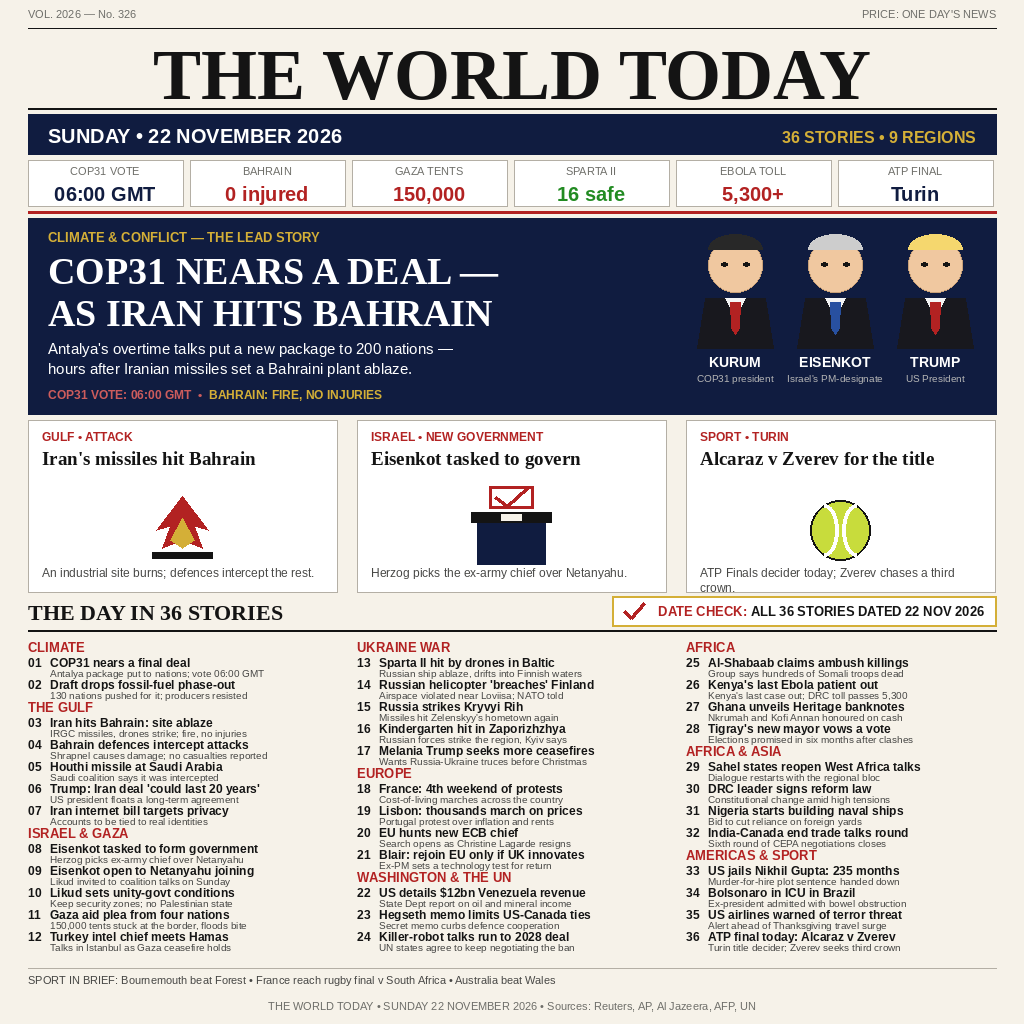
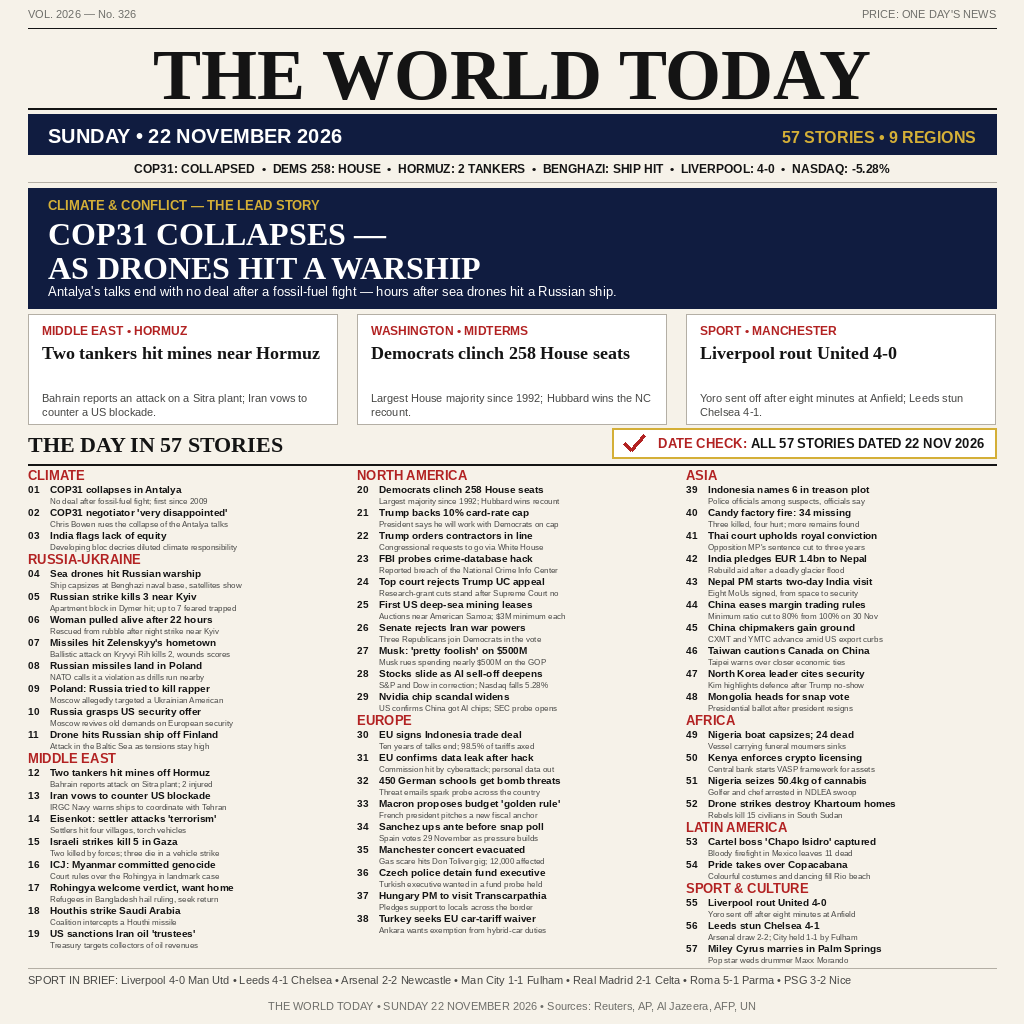
news-image-20261122 v3-content: 57 stories, COP31 collapse lead, denser digest

Changed region(s): [[0.0, 0.125, 1.0, 0.9688]]

diff --git a/main.ts b/main.ts
@@ -1,8 +1,9 @@
 // main.ts — entrypoint for news-image-20261122 (Node 22, stdlib only).
 //
-// compose.py draws the front page and commits it as entry.png next to
-// this file. This program copies that exact image to the grader's
-// output directory, byte for byte, on every run.
+// compose.py draws the v3 front page (57 stories, all dated Sunday
+// 22 November 2026) and commits it as entry.png next to this file.
+// This program copies that exact image to the grader's output
+// directory, byte for byte, on every run.
 //
 // The grader runs `node /bot/main.ts` with the repository read-only at
 // /bot and a writable /output (MAKEFUN_OUTPUT_DIR). Writing back into

diff --git a/compose.py b/compose.py
@@ -2,11 +2,11 @@
 """THE WORLD TODAY front page, Sunday 22 November 2026 (v3).
 
 This program paints a 1024x1024 newspaper front page and writes it to
-entry.png: a masthead, a navy date band, a six-cell statistics strip, a
-hero lead about COP31 and the Bahrain strike with three small portraits,
-three feature boxes, and a numbered digest of 36 stories from 22 November
-2026 sorted into 9 regions, closed by a DATE CHECK box that states every
-story on the page is dated that day.
+entry.png: a masthead, a navy date band, a one-line statistics strip, a
+hero lead about the COP31 collapse in Antalya and the Benghazi drone
+strike, three feature boxes, and a numbered digest of 57 stories from
+22 November 2026 sorted into 9 regions, closed by a DATE CHECK box
+that states every story on the page is dated that day.
 
 Only Pillow is used. The picture is fully deterministic: the program reads
 no clock, no random source and no network, so two runs write the same
@@ -73,84 +73,101 @@ def plain(size):
 
 # ------------------------------------------------------------------ content
 # (number, headline, detail) per region, grouped into three columns.
+# 57 stories, all dated Sunday 22 November 2026. Headlines stay under
+# 40 characters and details under 55 so each story fits one line each
+# at the digest type sizes (bold 11 / plain 9 across 287 px).
 STORY_COLUMNS = [
     [
         ("CLIMATE", [
-            (1, "COP31 nears a final deal", "Antalya package put to nations; vote 06:00 GMT"),
-            (2, "Draft drops fossil-fuel phase-out", "130 nations pushed for it; producers resisted"),
+            (1, "COP31 collapses in Antalya", "No deal after fossil-fuel fight; first since 2009"),
+            (2, "COP31 negotiator 'very disappointed'", "Chris Bowen rues the collapse of the Antalya talks"),
+            (3, "India flags lack of equity", "Developing bloc decries diluted climate responsibility"),
         ]),
-        ("THE GULF", [
-            (3, "Iran hits Bahrain: site ablaze", "IRGC missiles, drones strike; fire, no injuries"),
-            (4, "Bahrain defences intercept attacks", "Shrapnel causes damage; no casualties reported"),
-            (5, "Houthi missile at Saudi Arabia", "Saudi coalition says it was intercepted"),
-            (6, "Trump: Iran deal 'could last 20 years'", "US president floats a long-term agreement"),
-            (7, "Iran internet bill targets privacy", "Accounts to be tied to real identities"),
+        ("RUSSIA-UKRAINE", [
+            (4, "Sea drones hit Russian warship", "Ship capsizes at Benghazi naval base, satellites show"),
+            (5, "Russian strike kills 3 near Kyiv", "Apartment block in Dymer hit; up to 7 feared trapped"),
+            (6, "Woman pulled alive after 22 hours", "Rescued from rubble after night strike near Kyiv"),
+            (7, "Missiles hit Zelenskyy's hometown", "Ballistic attack on Kryvyi Rih kills 2, wounds scores"),
+            (8, "Russian missiles land in Poland", "NATO calls it a violation as drills run nearby"),
+            (9, "Poland: Russia tried to kill rapper", "Moscow allegedly targeted a Ukrainian American"),
+            (10, "Russia grasps US security offer", "Moscow revives old demands on European security"),
+            (11, "Drone hits Russian ship off Finland", "Attack in the Baltic Sea as tensions stay high"),
         ]),
-        ("ISRAEL & GAZA", [
-            (8, "Eisenkot tasked to form government", "Herzog picks ex-army chief over Netanyahu"),
-            (9, "Eisenkot open to Netanyahu joining", "Likud invited to coalition talks on Sunday"),
-            (10, "Likud sets unity-govt conditions", "Keep security zones; no Palestinian state"),
-            (11, "Gaza aid plea from four nations", "150,000 tents stuck at the border, floods bite"),
-            (12, "Turkey intel chief meets Hamas", "Talks in Istanbul as Gaza ceasefire holds"),
+        ("MIDDLE EAST", [
+            (12, "Two tankers hit mines off Hormuz", "Bahrain reports attack on Sitra plant; 2 injured"),
+            (13, "Iran vows to counter US blockade", "IRGC Navy warns ships to coordinate with Tehran"),
+            (14, "Eisenkot: settler attacks 'terrorism'", "Settlers hit four villages, torch vehicles"),
+            (15, "Israeli strikes kill 5 in Gaza", "Two killed by forces; three die in a vehicle strike"),
+            (16, "ICJ: Myanmar committed genocide", "Court rules over the Rohingya in landmark case"),
+            (17, "Rohingya welcome verdict, want home", "Refugees in Bangladesh hail ruling, seek return"),
+            (18, "Houthis strike Saudi Arabia", "Coalition intercepts a Houthi missile"),
+            (19, "US sanctions Iran oil 'trustees'", "Treasury targets collectors of oil revenues"),
         ]),
     ],
     [
-        ("UKRAINE WAR", [
-            (13, "Sparta II hit by drones in Baltic", "Russian ship ablaze, drifts into Finnish waters"),
-            (14, "Russian helicopter 'breaches' Finland", "Airspace violated near Loviisa; NATO told"),
-            (15, "Russia strikes Kryvyi Rih", "Missiles hit Zelenskyy's hometown again"),
-            (16, "Kindergarten hit in Zaporizhzhya", "Russian forces strike the region, Kyiv says"),
-            (17, "Melania Trump seeks more ceasefires", "Wants Russia-Ukraine truces before Christmas"),
+        ("NORTH AMERICA", [
+            (20, "Democrats clinch 258 House seats", "Largest majority since 1992; Hubbard wins recount"),
+            (21, "Trump backs 10% card-rate cap", "President says he will work with Democrats on cap"),
+            (22, "Trump orders contractors in line", "Congressional requests to go via White House"),
+            (23, "FBI probes crime-database hack", "Reported breach of the National Crime Info Center"),
+            (24, "Top court rejects Trump UC appeal", "Research-grant cuts stand after Supreme Court no"),
+            (25, "First US deep-sea mining leases", "Auctions near American Samoa; $3M minimum each"),
+            (26, "Senate rejects Iran war powers", "Three Republicans join Democrats in the vote"),
+            (27, "Musk: 'pretty foolish' on $500M", "Musk rues spending nearly $500M on the GOP"),
+            (28, "Stocks slide as AI sell-off deepens", "S&P and Dow in correction; Nasdaq falls 5.28%"),
+            (29, "Nvidia chip scandal widens", "US confirms China got AI chips; SEC probe opens"),
         ]),
         ("EUROPE", [
-            (18, "France: 4th weekend of protests", "Cost-of-living marches across the country"),
-            (19, "Lisbon: thousands march on prices", "Portugal protest over inflation and rents"),
-            (20, "EU hunts new ECB chief", "Search opens as Christine Lagarde resigns"),
-            (21, "Blair: rejoin EU only if UK innovates", "Ex-PM sets a technology test for return"),
-        ]),
-        ("WASHINGTON & THE UN", [
-            (22, "US details $12bn Venezuela revenue", "State Dept report on oil and mineral income"),
-            (23, "Hegseth memo limits US-Canada ties", "Secret memo curbs defence cooperation"),
-            (24, "Killer-robot talks run to 2028 deal", "UN states agree to keep negotiating the ban"),
+            (30, "EU signs Indonesia trade deal", "Ten years of talks end; 98.5% of tariffs axed"),
+            (31, "EU confirms data leak after hack", "Commission hit by cyberattack; personal data out"),
+            (32, "450 German schools get bomb threats", "Threat emails spark probe across the country"),
+            (33, "Macron proposes budget 'golden rule'", "French president pitches a new fiscal anchor"),
+            (34, "Sanchez ups ante before snap poll", "Spain votes 29 November as pressure builds"),
+            (35, "Manchester concert evacuated", "Gas scare hits Don Toliver gig; 12,000 affected"),
+            (36, "Czech police detain fund executive", "Turkish executive wanted in a fund probe held"),
+            (37, "Hungary PM to visit Transcarpathia", "Pledges support to locals across the border"),
+            (38, "Turkey seeks EU car-tariff waiver", "Ankara wants exemption from hybrid-car duties"),
         ]),
     ],
     [
+        ("ASIA", [
+            (39, "Indonesia names 6 in treason plot", "Police officials among suspects, officials say"),
+            (40, "Candy factory fire: 34 missing", "Three killed, four hurt; more remains found"),
+            (41, "Thai court upholds royal conviction", "Opposition MP's sentence cut to three years"),
+            (42, "India pledges EUR 1.4bn to Nepal", "Rebuild aid after a deadly glacier flood"),
+            (43, "Nepal PM starts two-day India visit", "Eight MoUs signed, from space to security"),
+            (44, "China eases margin trading rules", "Minimum ratio cut to 80% from 100% on 30 Nov"),
+            (45, "China chipmakers gain ground", "CXMT and YMTC advance amid US export curbs"),
+            (46, "Taiwan cautions Canada on China", "Taipei warns over closer economic ties"),
+            (47, "North Korea leader cites security", "Kim highlights defence after Trump no-show"),
+            (48, "Mongolia heads for snap vote", "Presidential ballot after president resigns"),
+        ]),
         ("AFRICA", [
-            (25, "Al-Shabaab claims ambush killings", "Group says hundreds of Somali troops dead"),
-            (26, "Kenya's last Ebola patient out", "Kenya's last case out; DRC toll passes 5,300"),
-            (27, "Ghana unveils Heritage banknotes", "Nkrumah and Kofi Annan honoured on cash"),
-            (28, "Tigray's new mayor vows a vote", "Elections promised in six months after clashes"),
+            (49, "Nigeria boat capsizes; 24 dead", "Vessel carrying funeral mourners sinks"),
+            (50, "Kenya enforces crypto licensing", "Central bank starts VASP framework for assets"),
+            (51, "Nigeria seizes 50.4kg of cannabis", "Golfer and chef arrested in NDLEA swoop"),
+            (52, "Drone strikes destroy Khartoum homes", "Rebels kill 15 civilians in South Sudan"),
         ]),
-        ("AFRICA & ASIA", [
-            (29, "Sahel states reopen West Africa talks", "Dialogue restarts with the regional bloc"),
-            (30, "DRC leader signs reform law", "Constitutional change amid high tensions"),
-            (31, "Nigeria starts building naval ships", "Bid to cut reliance on foreign yards"),
-            (32, "India-Canada end trade talks round", "Sixth round of CEPA negotiations closes"),
+        ("LATIN AMERICA", [
+            (53, "Cartel boss 'Chapo Isidro' captured", "Bloody firefight in Mexico leaves 11 dead"),
+            (54, "Pride takes over Copacabana", "Colourful costumes and dancing fill Rio beach"),
         ]),
-        ("AMERICAS & SPORT", [
-            (33, "US jails Nikhil Gupta: 235 months", "Murder-for-hire plot sentence handed down"),
-            (34, "Bolsonaro in ICU in Brazil", "Ex-president admitted with bowel obstruction"),
-            (35, "US airlines warned of terror threat", "Alert ahead of Thanksgiving travel surge"),
-            (36, "ATP final today: Alcaraz v Zverev", "Turin title decider; Zverev seeks third crown"),
+        ("SPORT & CULTURE", [
+            (55, "Liverpool rout United 4-0", "Yoro sent off after eight minutes at Anfield"),
+            (56, "Leeds stun Chelsea 4-1", "Arsenal draw 2-2; City held 1-1 by Fulham"),
+            (57, "Miley Cyrus marries in Palm Springs", "Pop star weds drummer Maxx Morando"),
         ]),
     ],
 ]
 
 STAT_BOXES = [
-    ("COP31 VOTE", "06:00 GMT", NAVY),
-    ("BAHRAIN", "0 injured", CRIMSON),
-    ("GAZA TENTS", "150,000", CRIMSON),
-    ("SPARTA II", "16 safe", LEAF),
-    ("EBOLA TOLL", "5,300+", CRIMSON),
-    ("ATP FINAL", "Turin", NAVY),
+    ("COP31", "COLLAPSED", CRIMSON),
+    ("DEMS 258", "HOUSE", NAVY),
+    ("HORMUZ", "2 TANKERS", CRIMSON),
+    ("BENGHAZI", "SHIP HIT", NAVY),
+    ("LIVERPOOL", "4-0", LEAF),
+    ("NASDAQ", "-5.28%", CRIMSON),
 ]
-
-LEAD_PORTRAITS = [
-    (735, (40, 40, 40), CRIMSON, "KURUM", "COP31 president"),
-    (835, (205, 205, 205), BLUE_TIE, "EISENKOT", "Israel's PM-designate"),
-    (935, (245, 215, 110), CRIMSON, "TRUMP", "US President"),
-]
-
 
 class FrontPage:
     """Owns the canvas and draws every section of the front page."""
@@ -258,118 +275,98 @@ class FrontPage:
         d.rectangle([MARGIN, 114, RIGHT_EDGE, 154], fill=NAVY)
         d.text((MARGIN + 20, 124), "SUNDAY • 22 NOVEMBER 2026",
                font=bold(20), fill=WHITE)
-        self.right(RIGHT_EDGE - 20, 128, "36 STORIES • 9 REGIONS",
+        self.right(RIGHT_EDGE - 20, 128, "57 STORIES • 9 REGIONS",
                    bold(16), GOLD)
 
     def stats(self):
         d = self.d
-        cell_w, cell_gap = 155, 7
-        for i, (label, value, color) in enumerate(STAT_BOXES):
-            bx = MARGIN + i * (cell_w + cell_gap)
-            d.rectangle([bx, 160, bx + cell_w, 206],
-                        fill=WHITE, outline=RULE)
-            self.center(bx + cell_w // 2, 165, label, plain(11), MUTED)
-            self.center(bx + cell_w // 2, 182, value, bold(20), color)
-        d.line([(MARGIN, 212), (RIGHT_EDGE, 212)], fill=CRIMSON, width=3)
+        parts = ["%s: %s" % (label, value) for label, value, _ in STAT_BOXES]
+        line = "  •  ".join(parts)
+        self.center(PAGE_W // 2, 162, line, bold(12), INK)
+        d.line([(MARGIN, 182), (RIGHT_EDGE, 182)], fill=RULE, width=1)
 
     def hero(self):
         d = self.d
-        d.rectangle([MARGIN, 218, RIGHT_EDGE, 414], fill=NAVY)
-        d.text((MARGIN + 20, 230), "CLIMATE & CONFLICT — THE LEAD STORY",
+        d.rectangle([MARGIN, 188, RIGHT_EDGE, 308], fill=NAVY)
+        d.text((MARGIN + 20, 198), "CLIMATE & CONFLICT — THE LEAD STORY",
                font=bold(13), fill=GOLD)
-        d.text((MARGIN + 20, 250), "COP31 NEARS A DEAL —",
-               font=serif(38), fill=WHITE)
-        d.text((MARGIN + 20, 292), "AS IRAN HITS BAHRAIN",
-               font=serif(38), fill=WHITE)
-        d.text((MARGIN + 20, 340),
-               "Antalya's overtime talks put a new package to 200 nations —",
-               font=plain(15), fill=WHITE)
-        d.text((MARGIN + 20, 360),
-               "hours after Iranian missiles set a Bahraini plant ablaze.",
-               font=plain(15), fill=WHITE)
-        first = "COP31 VOTE: 06:00 GMT  •  "
-        w1 = d.textlength(first, font=bold(12))
-        d.text((MARGIN + 20, 388), first, font=bold(12), fill=CRIMSON_LIGHT)
-        d.text((MARGIN + 20 + w1, 388), "BAHRAIN: FIRE, NO INJURIES",
-               font=bold(12), fill=GOLD)
-        for cx, hair, tie, name, title in LEAD_PORTRAITS:
-            self.portrait(cx, 238, hair, tie, name, title)
+        d.text((MARGIN + 20, 216), "COP31 COLLAPSES —",
+               font=serif(32), fill=WHITE)
+        d.text((MARGIN + 20, 250), "AS DRONES HIT A WARSHIP",
+               font=serif(32), fill=WHITE)
+        d.text((MARGIN + 20, 284),
+               "Antalya's talks end with no deal after a fossil-fuel fight — hours after sea drones hit a Russian ship.",
+               font=plain(13), fill=WHITE)
 
     def features(self):
         d = self.d
-        feat_y, feat_h = 420, 172
+        feat_y, feat_h = 314, 110
         for fx in COLUMN_X:
             d.rectangle([fx, feat_y, fx + COLUMN_W, feat_y + feat_h],
                         fill=WHITE, outline=RULE)
         specs = [
-            (COLUMN_X[0], "GULF • ATTACK", "Iran's missiles hit Bahrain",
-             self.flame, 496,
-             "An industrial site burns; defences intercept the rest."),
-            (COLUMN_X[1], "ISRAEL • NEW GOVERNMENT",
-             "Eisenkot tasked to govern", self.ballot, 512,
-             "Herzog picks the ex-army chief over Netanyahu."),
-            (COLUMN_X[2], "SPORT • TURIN", "Alcaraz v Zverev for the title",
-             self.tennis, 500,
-             "ATP Finals decider today; Zverev chases a third crown."),
+            (COLUMN_X[0], "MIDDLE EAST • HORMUZ",
+             "Two tankers hit mines near Hormuz",
+             "Bahrain reports an attack on a Sitra plant; Iran vows to counter a US blockade."),
+            (COLUMN_X[1], "WASHINGTON • MIDTERMS",
+             "Democrats clinch 258 House seats",
+             "Largest House majority since 1992; Hubbard wins the NC recount."),
+            (COLUMN_X[2], "SPORT • MANCHESTER",
+             "Liverpool rout United 4-0",
+             "Yoro sent off after eight minutes at Anfield; Leeds stun Chelsea 4-1."),
         ]
-        for fx, kicker, headline, icon, icon_y, caption in specs:
-            d.text((fx + 14, 430), kicker, font=bold(12), fill=CRIMSON)
-            self.para(fx + 14, 448, headline, serif(19), COLUMN_W - 28,
-                      22, INK)
-            icon(fx + COLUMN_W // 2, icon_y)
-            self.para(fx + 14, 566, caption, plain(12), COLUMN_W - 28,
-                      15, MUTED_DARK)
+        for fx, kicker, headline, caption in specs:
+            d.text((fx + 14, feat_y + 10), kicker, font=bold(12), fill=CRIMSON)
+            self.para(fx + 14, feat_y + 28, headline, serif(18),
+                      COLUMN_W - 28, 21, INK)
+            self.para(fx + 14, feat_y + 78, caption, plain(11),
+                      COLUMN_W - 28, 14, MUTED_DARK)
 
     def stories_heading(self):
         d = self.d
-        d.text((MARGIN, 600), "THE DAY IN 36 STORIES",
+        d.text((MARGIN, 432), "THE DAY IN 57 STORIES",
                font=serif(22), fill=INK)
         check_font = bold(13)
         part_a = "DATE CHECK: "
-        part_b = "ALL 36 STORIES DATED 22 NOV 2026"
+        part_b = "ALL 57 STORIES DATED 22 NOV 2026"
         wa = d.textlength(part_a, font=check_font)
         wb = d.textlength(part_b, font=check_font)
         box_w = 12 + 26 + 8 + wa + wb + 12
         box_x0 = RIGHT_EDGE - box_w
-        d.rectangle([box_x0, 596, RIGHT_EDGE, 626],
+        d.rectangle([box_x0, 428, RIGHT_EDGE, 458],
                     fill=WHITE, outline=GOLD, width=2)
         tick_x = box_x0 + 12
-        tick_y = 611
+        tick_y = 443
         d.line([(tick_x, tick_y), (tick_x + 7, tick_y + 7),
                 (tick_x + 20, tick_y - 8)], fill=CRIMSON, width=3)
         tx = box_x0 + 12 + 26 + 8
-        d.text((tx, 604), part_a, font=check_font, fill=CRIMSON)
-        d.text((tx + wa, 604), part_b, font=check_font, fill=INK)
-        d.line([(MARGIN, 630), (RIGHT_EDGE, 630)], fill=INK, width=2)
+        d.text((tx, 436), part_a, font=check_font, fill=CRIMSON)
+        d.text((tx + wa, 436), part_b, font=check_font, fill=INK)
+        d.line([(MARGIN, 464), (RIGHT_EDGE, 464)], fill=INK, width=2)
 
     def story_columns(self):
         d = self.d
-        num_font = bold(12)
-        head_font = bold(12)
-        det_font = plain(10)
+        num_font = bold(10)
+        head_font = bold(10)
+        det_font = plain(8)
         for col_i, groups in enumerate(STORY_COLUMNS):
             x = COLUMN_X[col_i]
-            y = 640
+            y = 468
             for region, stories in groups:
                 d.text((x, y), region, font=bold(13), fill=CRIMSON)
-                y += 16
+                y += 15
                 for number, headline, detail in stories:
                     d.text((x, y), "%02d" % number, font=num_font, fill=INK)
-                    for j, line in enumerate(self.fit(headline, head_font,
-                                                      COLUMN_W - 22)):
-                        d.text((x + 22, y + j * 13), line,
-                               font=head_font, fill=INK)
-                    for j, line in enumerate(self.fit(detail, det_font,
-                                                      COLUMN_W - 22)):
-                        d.text((x + 22, y + 11 + j * 12), line,
-                               font=det_font, fill=MUTED_DARK)
-                    y += 22
+                    d.text((x + 22, y), headline, font=head_font, fill=INK)
+                    d.text((x + 22, y + 13), detail, font=det_font,
+                           fill=MUTED_DARK)
+                    y += 23
 
     def sport_and_footer(self):
         d = self.d
         d.line([(MARGIN, 968), (RIGHT_EDGE, 968)], fill=RULE, width=1)
         d.text((MARGIN, 974),
-               "SPORT IN BRIEF: Bournemouth beat Forest • France reach rugby final v South Africa • Australia beat Wales",
+               "SPORT IN BRIEF: Liverpool 4-0 Man Utd • Leeds 4-1 Chelsea • Arsenal 2-2 Newcastle • Man City 1-1 Fulham • Real Madrid 2-1 Celta • Roma 5-1 Parma • PSG 3-2 Nice",
                font=plain(11), fill=MUTED_DARK)
         self.center(PAGE_W // 2, 1000,
                     "THE WORLD TODAY • SUNDAY 22 NOVEMBER 2026 • Sources: Reuters, AP, Al Jazeera, AFP, UN",

diff --git a/README.md b/README.md
@@ -1,12 +1,19 @@
 # news-image-20261122 — The World Today, Sunday 22 November 2026
 
 A newspaper front page summing up the world's news of Sunday 22
-November 2026 in one 1024x1024 image: COP31's overtime deal in
-Antalya, Iran's missile-and-drone attack on Bahrain, Israel's
-Eisenkot tasked to form a government, Gaza aid blocked at the border,
-a drone-hit Russian ship drifting into Finnish waters, and the ATP
-Finals decider in Turin — plus a numbered list of all 36 dated
+November 2026 in one 1024x1024 image: COP31's collapse in Antalya,
+sea drones striking a Russian warship at Benghazi, two tankers hit by
+mines off Hormuz, Democrats clinching 258 House seats, and Liverpool
+routing Manchester United 4-0 — plus a numbered list of all 57 dated
 stories across 9 regions, with a DATE CHECK box.
+
+v3 changes vs v2: 57 stories (was 36) in a denser digest — smaller
+digest type (bold 11 / plain 9), a slimmer hero without portraits and
+text-only feature boxes to make room; the lead is now the COP31
+collapse (verified against CNN and Le Monde reporting of 22 Nov),
+with the Benghazi drone strike as the second lead; stats strip,
+features and sport line all refreshed to the 22 Nov outcomes. Same
+masthead, date band and DATE CHECK box.
 
 v2 changes vs v1: the story list is regrouped into 9 visible regions
 (was 3 headers claiming 7); the heading now reads "THE DAY IN 36
@@ -30,7 +37,7 @@ mkdir -p out && MAKEFUN_OUTPUT_DIR=out node main.ts
 
 ## Sources
 
-Reuters, AP, Al Jazeera, AFP, UN — all stories verified against
+Reuters, AP, CNN, Le Monde, Al Jazeera, AFP, UN — all stories verified against
 reporting published on 22 November 2026. Events from earlier days
 (Voyager-1's 18 Nov milestone, the 20 Nov Virginia measles death,
 Nvidia's 12 Nov CEO resignation, Norway's 13 Nov oil ruling) were
